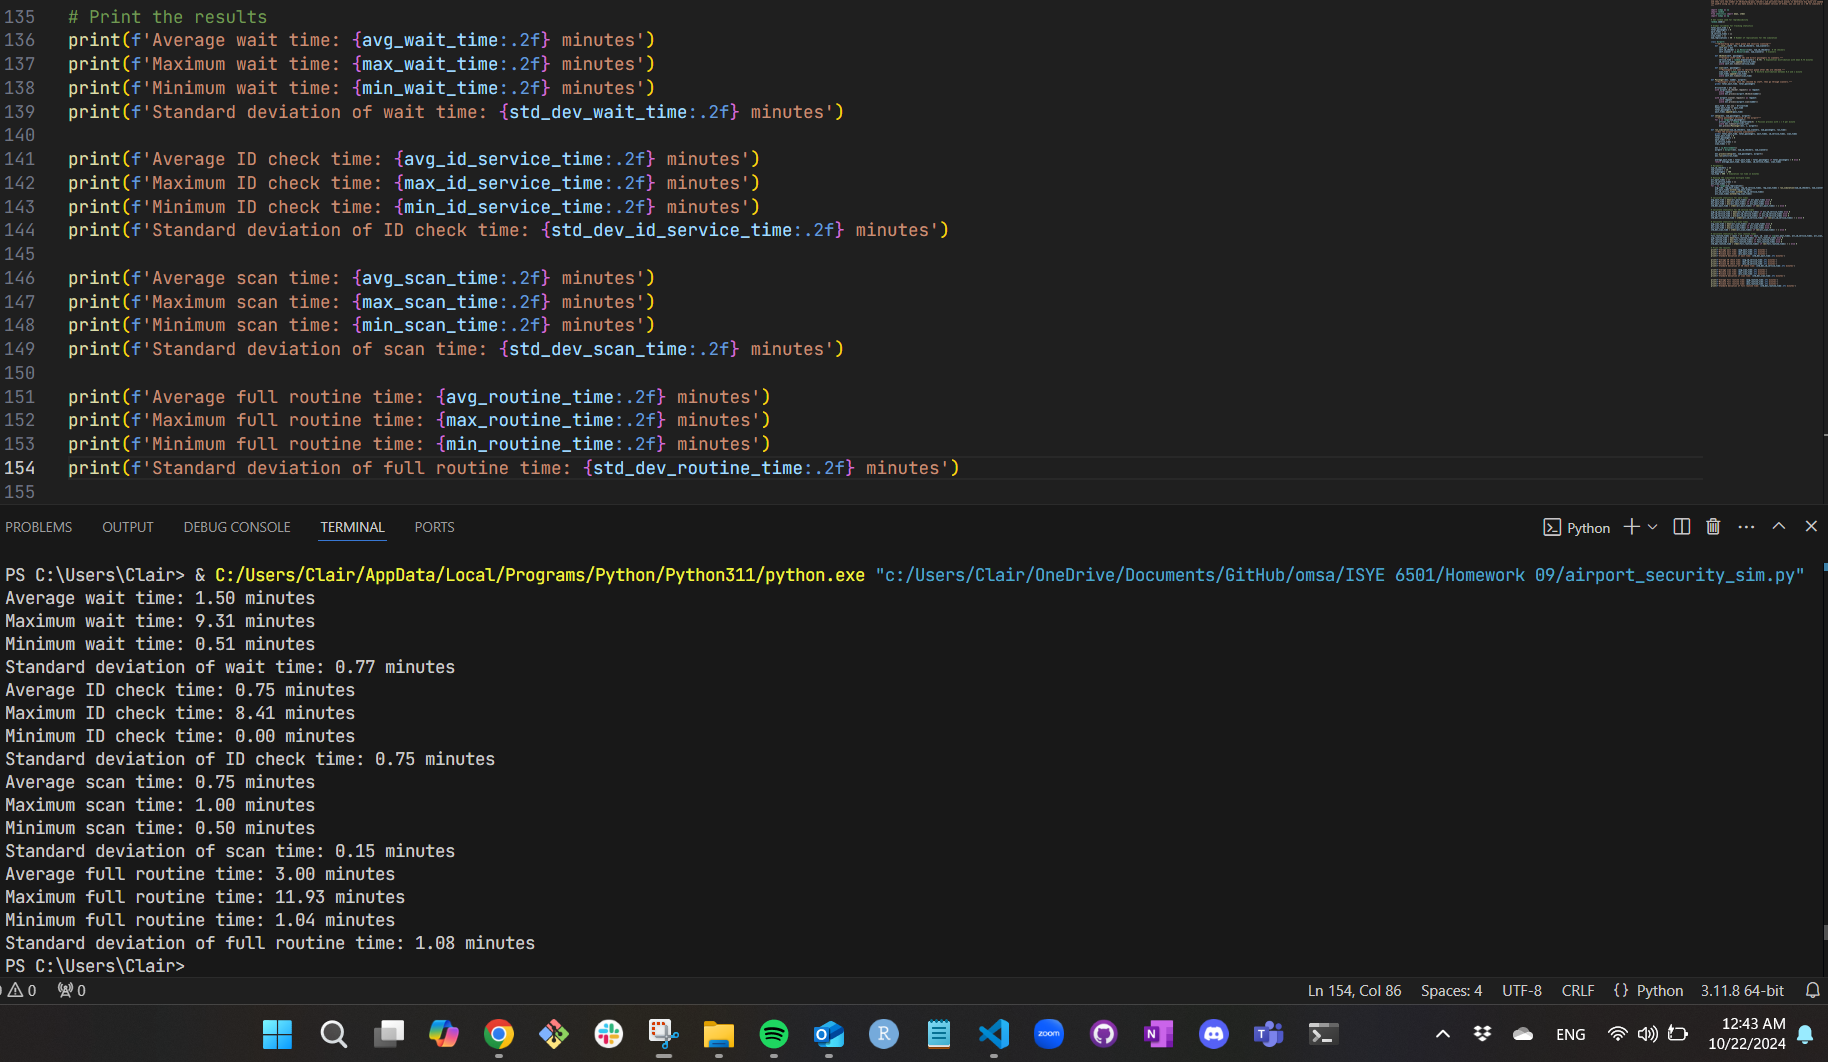
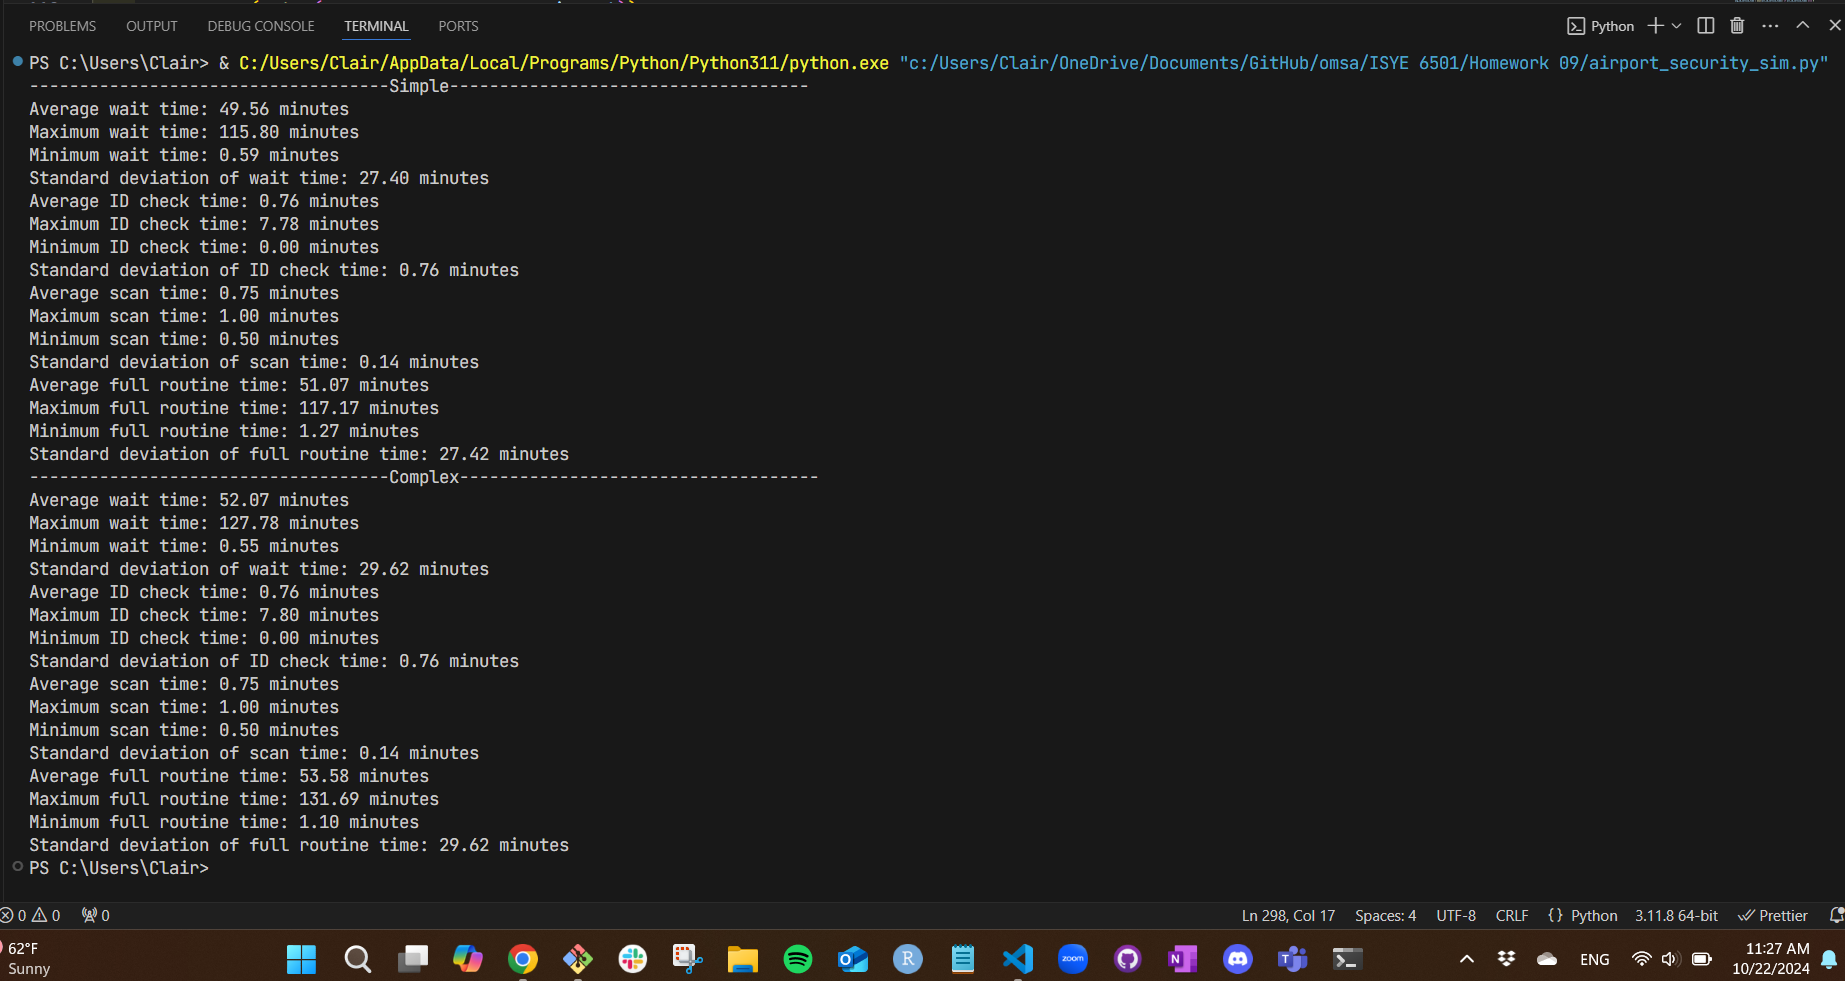
simple and complex sims done

diff --git a/ISYE 6501/Homework 09/airport_security_sim.py b/ISYE 6501/Homework 09/airport_security_sim.py
@@ -18,6 +18,36 @@ import random
 from statistics import mean, stdev
 import numpy as np
 
+#---------------------------------------------- Simple: single queue ----------------------------------------------#
+"""
+The flow of this simple simulation follows a single queue system for both the ID check stations and scanners.
+
+1. **Arrival**:  
+   - Passengers arrive at the airport based on a Poisson process (random time intervals) and are immediately placed into a **single queue** for the ID check stations.
+
+2. **ID Check Queue**:
+   - Passengers wait in line to request access to an available **ID checker** resource (one of the 2 ID check stations).
+   - Once a passenger's request is granted (meaning an ID checker becomes available), they go through the ID check process. The time taken for this process is drawn from an exponential distribution (with a mean of 0.75 minutes).
+
+3. **Scanner Queue**:
+   - After completing the ID check, passengers are placed in another **single queue** for the scanners (there are 2 scanners).
+   - They then request access to an available scanner. Once granted, the scanning process takes place, with a time drawn from a uniform distribution between 0.5 and 1 minute.
+
+4. **Exit**:
+   - After completing both the ID check and the scan, the passenger exits the system, and their total time in the system (from arrival to the end of scanning) is recorded.
+
+### Key Points:
+- **Single Queue for ID Check**: All passengers share the same queue for the ID check stations, which means they wait for the first available ID checker.
+- **Single Queue for Scanners**: Similarly, after the ID check, all passengers wait in a single queue for the first available scanner.
+  
+This single queue approach ensures fairness in the system, as passengers are served based on their order of arrival rather than being assigned to a specific ID checker or scanner. This also optimizes resource usage by minimizing idle time for ID checkers and scanners.
+
+So, the flow is as follows:
+- **One queue for ID check** → **One queue for scanners** → **Exit**.
+
+This flow effectively simulates a realistic airport security process where passengers are routed from one checkpoint (ID check) to another (scanner) without being tied to any specific station but rather the next available one.
+"""
+
 # Set random seed for reproducibility
 random.seed(1)
 
@@ -36,7 +66,7 @@ class Airport:
         self.id_checker = sy.Resource(env, num_id_checkers)  # ID checkers
         self.scanner = sy.Resource(env, num_scanners)  # Scanners
     
-    def IDcheck(self, passenger):
+    def id_check(self, passenger):
         """Airport staff check IDs and direct passengers to scanners."""
         service_time = random.expovariate(1 / 0.75)  # Exponential distribution with mean 0.75 minutes
         id_service_times.append(service_time)
@@ -55,7 +85,7 @@ def Passenger(env, number, airport):
     Arrivaltime = env.now
     with airport.id_checker.request() as request:
         yield request
-        yield env.process(airport.IDcheck(number))
+        yield env.process(airport.id_check(number))
     
     with airport.scanner.request() as request:
         yield request
@@ -92,8 +122,8 @@ def run_simulation(num_id_checkers, num_scanners, num_passengers, run_time):
     return average_wait_time, wait_times, id_service_times, scan_times
 
 # Parameters
-num_id_checkers = 24
-num_scanners = 15
+num_id_checkers = 2
+num_scanners = 2
 num_passengers = 500
 run_time = 600  # Simulation run time in minutes
 
@@ -133,6 +163,7 @@ min_routine_time = min(full_routine_times) if full_routine_times else 0
 std_dev_routine_time = stdev(full_routine_times) if len(full_routine_times) > 1 else 0
 
 # Print the results
+print('------------------------------------Simple------------------------------------')
 print(f'Average wait time: {avg_wait_time:.2f} minutes')
 print(f'Maximum wait time: {max_wait_time:.2f} minutes')
 print(f'Minimum wait time: {min_wait_time:.2f} minutes')
@@ -152,3 +183,177 @@ print(f'Average full routine time: {avg_routine_time:.2f} minutes')
 print(f'Maximum full routine time: {max_routine_time:.2f} minutes')
 print(f'Minimum full routine time: {min_routine_time:.2f} minutes')
 print(f'Standard deviation of full routine time: {std_dev_routine_time:.2f} minutes')
+
+
+#---------------------------------------------- Complex: dual queues ----------------------------------------------#
+"""
+The flow of this complex simulation follows a multi queue system for both the ID check stations and scanners.
+
+1. **Arrival**:  
+   - Passengers arrive at the airport based on a Poisson process, which generates random arrival times. Upon arrival, each passenger enters the ID check queue. In this simulation, there are **separate queues for each ID checker**.
+
+2. **ID Check Queue**:
+   - Passengers are assigned to a random ID check queue (one of the 2 ID check stations). Each ID checker has an independent queue.
+   - The passenger waits in their assigned ID checker's queue for the next available staff member.
+   - Once they reach the front of the queue, they undergo the ID check, which takes a time drawn from an **exponential distribution** with a mean of 0.75 minutes.
+
+3. **Scanner Queue**:
+   - After completing the ID check, the passenger enters a separate scanner queue. Similar to the ID check process, each scanner has an independent queue (there are 2 scanners).
+   - Passengers are assigned to a random scanner queue and wait for the next available scanner.
+   - Once a scanner becomes available, the scanning process begins. This time is drawn from a **uniform distribution** between 0.5 and 1 minute.
+
+4. **Exit**:
+   - After completing the ID check and scanning process, the passengers exit the system, and their total time spent in the system (from arrival to the end of scanning) is recorded.
+
+### Key Points:
+- **Two Independent Queues**: There are two separate sets of queues—one for ID check stations and one for scanners. Each passenger is assigned to a specific queue for both the ID check and the scanner.
+- **Queue Assignment**: Passengers do not stay in a single queue for all ID checkers or scanners. Instead, they are randomly assigned to a specific queue (either for ID checking or scanning), simulating a more decentralized queuing system.
+- **Random Service Time**: 
+   - ID check times are drawn from an exponential distribution, which simulates varying lengths of time for ID checks.
+   - Scanning times are drawn from a uniform distribution, modeling the relatively consistent but varied duration of security scanning.
+  
+This two-queue model simulates a more complex and realistic airport security process where passengers are not waiting in a single line but are instead distributed across two independent queues for both ID check and scanning stations.
+"""
+
+# Set random seed for reproducibility
+random.seed(1)
+
+# Global variables for tracking statistics
+total_wait_time = 0
+total_passengers = 0
+wait_times = []
+id_service_times = []
+scan_times = []
+num_replications = 50  # Number of replications for the simulation
+
+class Airport:
+    """ID check queue and security scanning with separate queues"""
+    def __init__(self, env, num_id_checkers, num_scanners):
+        self.env = env
+        self.id_checker_queue = [sy.Resource(env, 1) for _ in range(num_id_checkers)]  # Separate queues for ID checkers
+        self.scanner_queue = [sy.Resource(env, 1) for _ in range(num_scanners)]  # Separate queues for scanners
+
+    def id_check(self, passenger, queue_id):
+        """Passenger uses a specific ID checker queue"""
+        service_time = random.expovariate(1 / 0.75)  # Exponential distribution with mean 0.75 minutes
+        id_service_times.append(service_time)
+        yield self.env.timeout(service_time)
+
+    def scan(self, passenger, queue_id):
+        """Passenger uses a specific scanner queue"""
+        scan_time = random.uniform(0.5, 1)  # Uniform distribution between 0.5 and 1 minute
+        scan_times.append(scan_time)
+        yield self.env.timeout(scan_time)
+
+def Passenger(env, number, airport):
+    """Passengers arrive, queue for ID check, then queue for scanners."""
+    global total_wait_time, total_passengers
+    
+    Arrivaltime = env.now
+    
+    # Pick a random queue for the ID check
+    id_checker_queue_id = random.randint(0, len(airport.id_checker_queue) - 1)
+    with airport.id_checker_queue[id_checker_queue_id].request() as request:
+        yield request
+        yield env.process(airport.id_check(number, id_checker_queue_id))
+
+    # After ID check, pick a random queue for the scanner
+    scanner_queue_id = random.randint(0, len(airport.scanner_queue) - 1)
+    with airport.scanner_queue[scanner_queue_id].request() as request:
+        yield request
+        yield env.process(airport.scan(number, scanner_queue_id))
+
+    pass_time = env.now - Arrivaltime
+    total_wait_time += pass_time
+    total_passengers += 1
+    wait_times.append(pass_time)
+
+def setup(env, num_passengers, airport):
+    """Setup passengers arriving at the airport"""
+    for i in range(num_passengers):
+        arrival_int = random.expovariate(5)  # Poisson process with λ = 5 per minute
+        yield env.timeout(arrival_int)
+        env.process(Passenger(env, i, airport))
+
+def run_simulation(num_id_checkers, num_scanners, num_passengers, run_time):
+    """Run the airport security simulation with two separate queues"""
+    global total_wait_time, total_passengers, wait_times, id_service_times, scan_times
+    total_wait_time = 0
+    total_passengers = 0
+    wait_times = []
+    id_service_times = []
+    scan_times = []
+    
+    env = sy.Environment()
+    airport = Airport(env, num_id_checkers, num_scanners)
+    
+    env.process(setup(env, num_passengers, airport))
+    env.run(until=run_time)
+    
+    average_wait_time = total_wait_time / total_passengers if total_passengers > 0 else 0
+    return average_wait_time, wait_times, id_service_times, scan_times
+
+# Parameters
+num_id_checkers = 2
+num_scanners = 2
+num_passengers = 500
+run_time = 600  # Simulation run time in minutes
+
+# Running the simulation multiple times
+all_wait_times = []
+all_id_service_times = []
+all_scan_times = []
+for _ in range(num_replications):
+    avg_time, rep_wait_times, rep_id_service_times, rep_scan_times = run_simulation(num_id_checkers, num_scanners, num_passengers, run_time)
+    all_wait_times.extend(rep_wait_times)
+    all_id_service_times.extend(rep_id_service_times)
+    all_scan_times.extend(rep_scan_times)
+
+# Calculate statistics for wait times
+avg_wait_time = mean(all_wait_times) if all_wait_times else 0
+max_wait_time = max(all_wait_times) if all_wait_times else 0
+min_wait_time = min(all_wait_times) if all_wait_times else 0
+std_dev_wait_time = stdev(all_wait_times) if len(all_wait_times) > 1 else 0
+
+# Calculate statistics for ID service times
+avg_id_service_time = mean(all_id_service_times) if all_id_service_times else 0
+max_id_service_time = max(all_id_service_times) if all_id_service_times else 0
+min_id_service_time = min(all_id_service_times) if all_id_service_times else 0
+std_dev_id_service_time = stdev(all_id_service_times) if len(all_id_service_times) > 1 else 0
+
+# Calculate statistics for scan times
+avg_scan_time = mean(all_scan_times) if all_scan_times else 0
+max_scan_time = max(all_scan_times) if all_scan_times else 0
+min_scan_time = min(all_scan_times) if all_scan_times else 0
+std_dev_scan_time = stdev(all_scan_times) if len(all_scan_times) > 1 else 0
+
+# Calculate statistics for full routine times
+full_routine_times = [wait + id + scan for wait, id, scan in zip(all_wait_times, all_id_service_times, all_scan_times)]
+avg_routine_time = mean(full_routine_times) if full_routine_times else 0
+max_routine_time = max(full_routine_times) if full_routine_times else 0
+min_routine_time = min(full_routine_times) if full_routine_times else 0
+std_dev_routine_time = stdev(full_routine_times) if len(full_routine_times) > 1 else 0
+
+# Print the results
+print('------------------------------------Complex------------------------------------')
+print(f'Average wait time: {avg_wait_time:.2f} minutes')
+print(f'Maximum wait time: {max_wait_time:.2f} minutes')
+print(f'Minimum wait time: {min_wait_time:.2f} minutes')
+print(f'Standard deviation of wait time: {std_dev_wait_time:.2f} minutes')
+
+print(f'Average ID check time: {avg_id_service_time:.2f} minutes')
+print(f'Maximum ID check time: {max_id_service_time:.2f} minutes')
+print(f'Minimum ID check time: {min_id_service_time:.2f} minutes')
+print(f'Standard deviation of ID check time: {std_dev_id_service_time:.2f} minutes')
+
+print(f'Average scan time: {avg_scan_time:.2f} minutes')
+print(f'Maximum scan time: {max_scan_time:.2f} minutes')
+print(f'Minimum scan time: {min_scan_time:.2f} minutes')
+print(f'Standard deviation of scan time: {std_dev_scan_time:.2f} minutes')
+
+print(f'Average full routine time: {avg_routine_time:.2f} minutes')
+print(f'Maximum full routine time: {max_routine_time:.2f} minutes')
+print(f'Minimum full routine time: {min_routine_time:.2f} minutes')
+print(f'Standard deviation of full routine time: {std_dev_routine_time:.2f} minutes')
+
+
